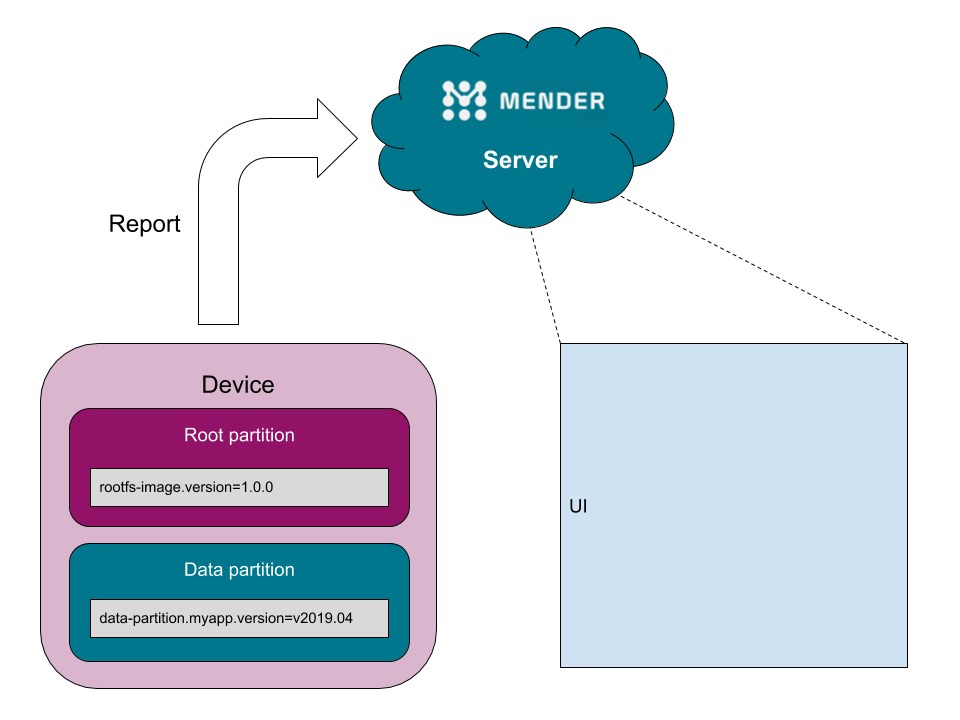
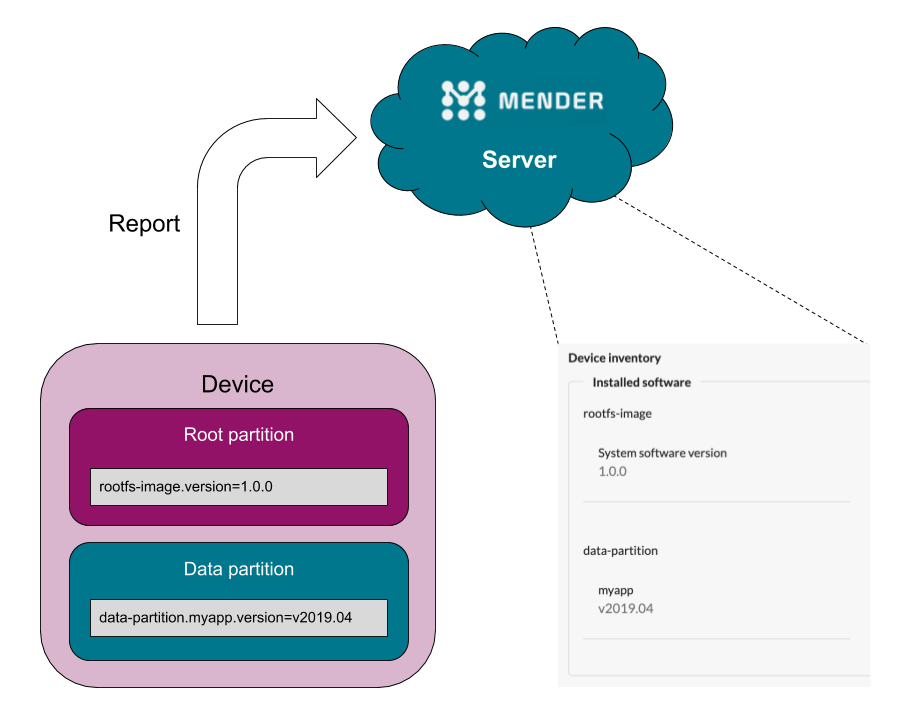
added explanatory image to show where the information about installed software is shown in the Mender UI
Changelog: None

diff --git a/06.Artifact-creation/09.Software-versioning/docs.md b/06.Artifact-creation/09.Software-versioning/docs.md
@@ -61,7 +61,7 @@ rootfs-image.version=1.0.0
 <!--AUTOVERSION: "field has been updated to `%`"/ignore-->
 We can see that the `rootfs-image.version` field has been updated to `1.0.0`.
 
-TODO Screenshots
+![Installed rootfs-image Artifact shown in the Mender UI](installed-software-ui.png)
 
 ## Application updates (Update modules)
 
@@ -141,7 +141,7 @@ In this example, we used the last of the Artifacts produced above, and we can se
 
 !!! Notice that `rootfs-image.version` is still the value of the original "rootfs-image" Artifact. This is the key feature of software naming: A device can host versions of multiple different components at the same time.
 
-TODO Screenshots
+![Updated rootfs-image Artifact with data partition information specified](updated-software-ui.png)
 
 ### Application updates on the root filesystem
 
